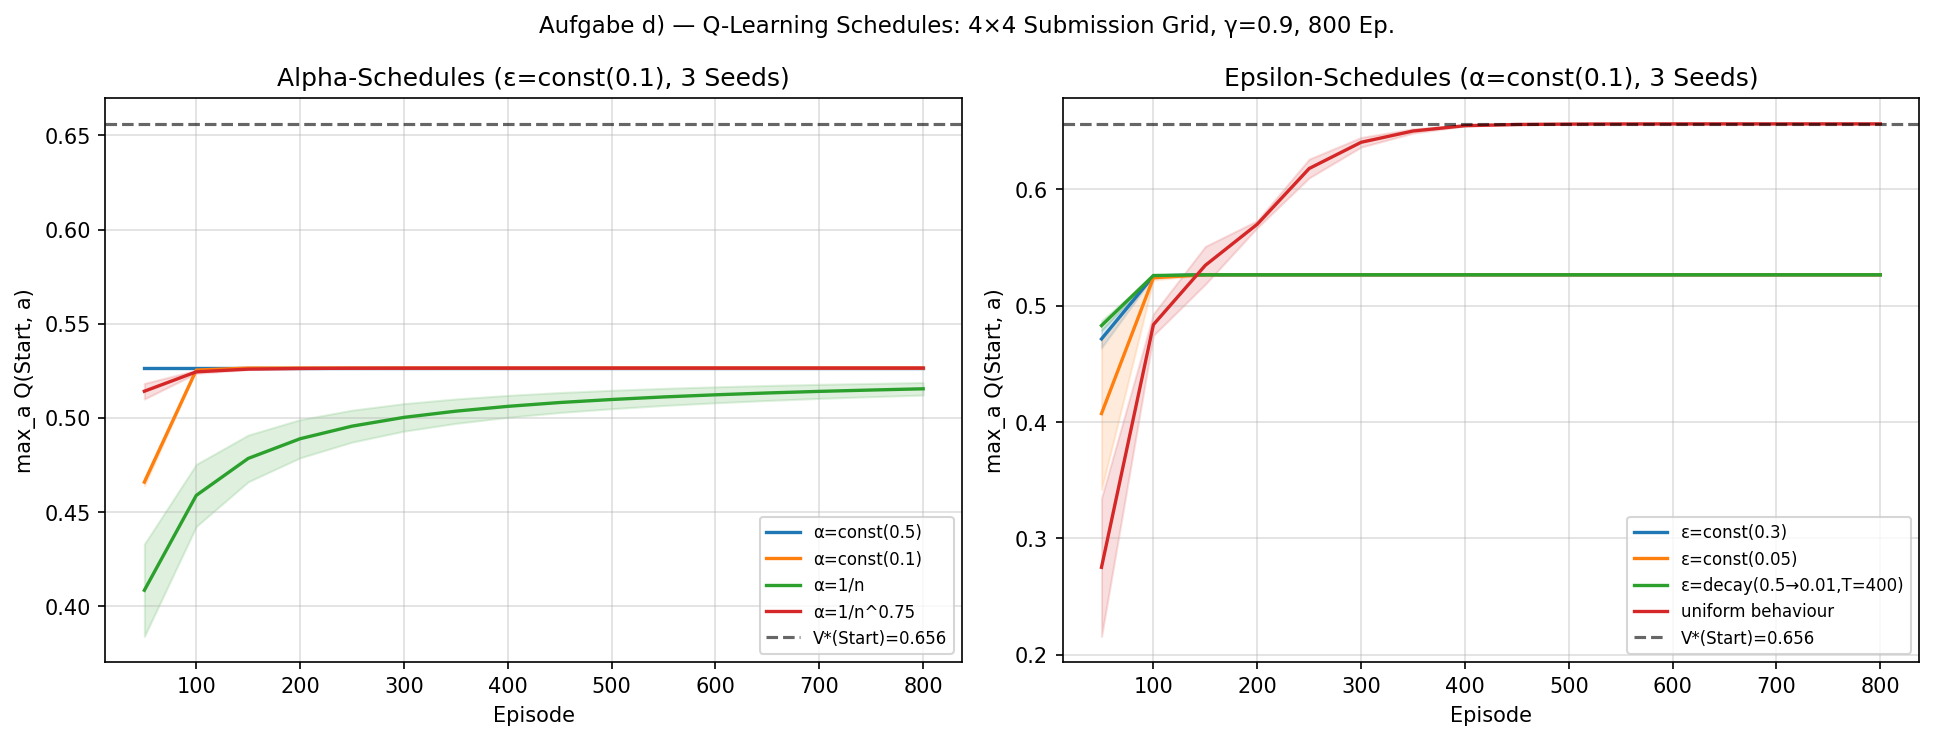
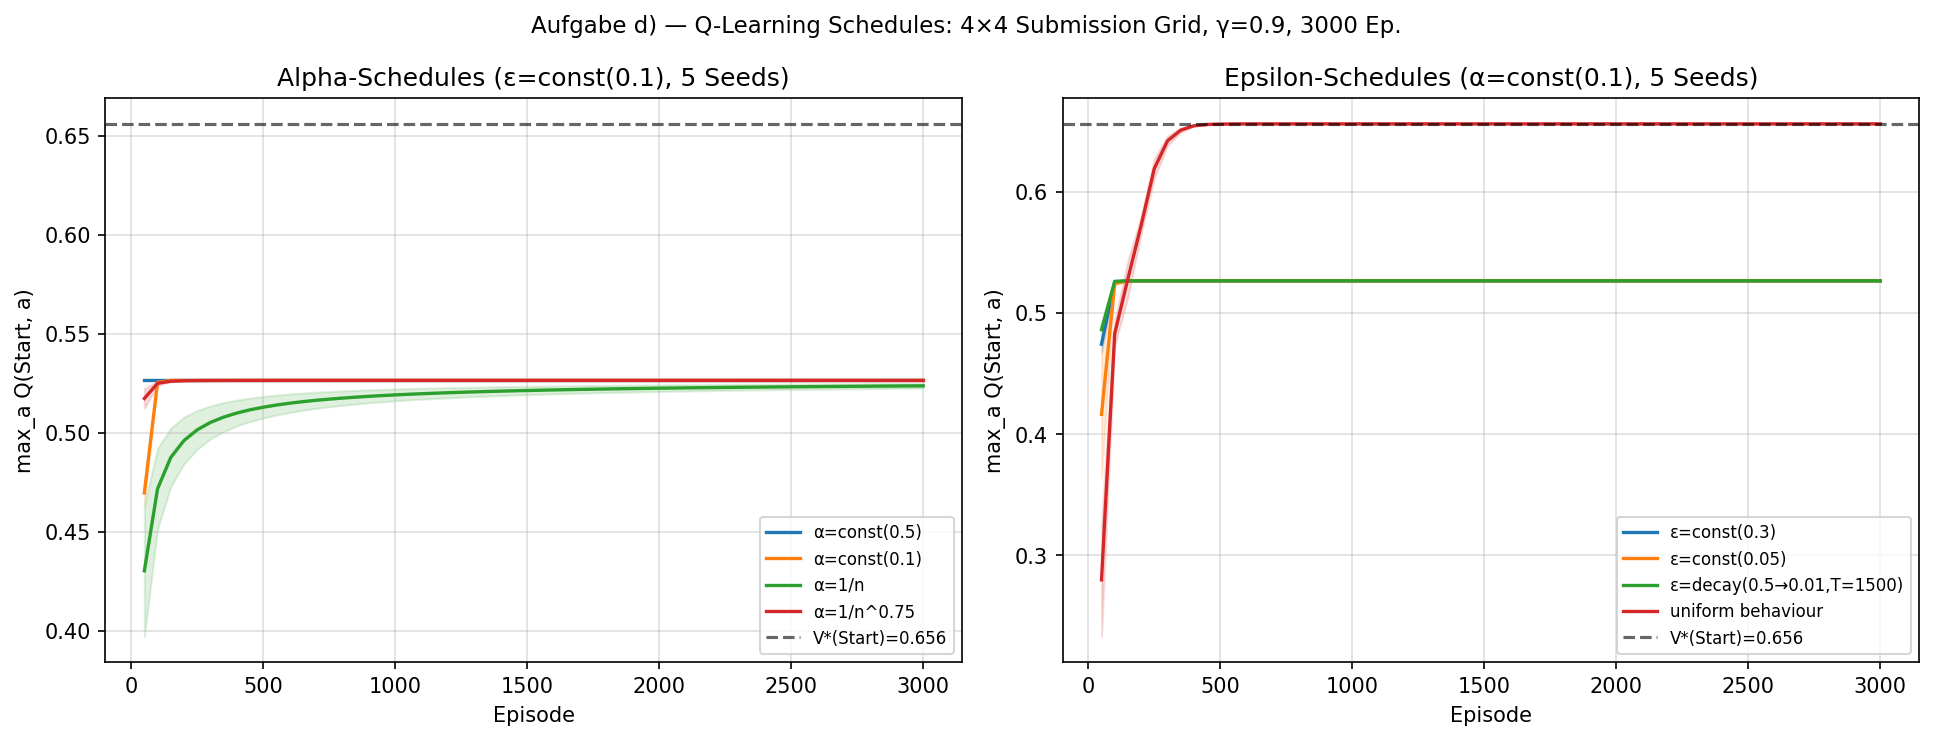
Finalize repo for submission (step 6)
- README: vollständig neu mit Setup, Tests, Demo-Liste, Submission-Anleitung,
  KI-Hinweis und erwarteten Laufzeiten (98 Tests ~30s, Full-Run ~50s)
- requirements.txt: scipy/joblib/tqdm entfernt (nirgendwo importiert),
  pytest ergänzt
- .gitignore: results/*.json ergänzt, .claude/ explizit ausgeschlossen,
  submission/-Unterverzeichnisse bleiben korrekt getrackt
- Stub-Module bereinigt: alle # TODO-Zeilen aus n_step_td, n_step_sarsa,
  utils/metrics, utils/plotting, utils/visualization, run_policy_evaluation
  entfernt und durch erklärende Docstring-Zeilen ersetzt
- figures/submission und results/submission: task_d + task_f aktualisiert
  (regeneriert durch run_all_submission)

diff --git a/tabular_rl_project/experiments/demos/run_policy_evaluation.py b/tabular_rl_project/experiments/demos/run_policy_evaluation.py
@@ -1,5 +1,8 @@
-"""Demo: Iterative Policy Evaluation (Skript Algorithm 7) auf einem GridWorld."""
+"""Demo: Iterative Policy Evaluation (Skript Algorithm 7) auf einem GridWorld.
 
-# TODO
+Nicht implementiert; Policy Evaluation wird in run_value_iteration.py
+und in den Submission-Tasks demonstriert.
+"""
+
 if __name__ == "__main__":
     pass

diff --git a/tabular_rl_project/utils/metrics.py b/tabular_rl_project/utils/metrics.py
@@ -4,6 +4,7 @@
     - total_squared_bias(Q_estimate, Q_true)
     - bias_at(Q_estimate, Q_true, state, action)
     - squared_bias_at(...)
-"""
 
-# TODO
+Nicht implementiert; die Bias-Analyse ist in den Submission-Tasks direkt
+inline in den jeweiligen Skripten enthalten.
+"""

diff --git a/tabular_rl_project/utils/plotting.py b/tabular_rl_project/utils/plotting.py
@@ -3,6 +3,7 @@
     - plot_convergence(errors_per_algo, title, ylabel)
     - boxplot_final_metric(values_per_algo, ...)
     - save_figure(fig, name)         legt unter ../figures/<name>.png ab
-"""
 
-# TODO
+Nicht implementiert; Plots werden direkt in den Demo- und Submission-
+Skripten erstellt, die jeweils eigene Matplotlib-Funktionen enthalten.
+"""

diff --git a/tabular_rl_project/utils/visualization.py b/tabular_rl_project/utils/visualization.py
@@ -5,6 +5,7 @@
     - animate_evolution(history)                 Schrittweise Entwicklung
                                                  (Backpropagation, Blatt 5 Aufg. 5)
     - render_multi_step_bandit_policy(env, policy)
-"""
 
-# TODO
+Nicht implementiert; GridWorld-Visualisierungen sind direkt in
+envs/gridworld.py (visualize_layout, visualize_policy) enthalten.
+"""

diff --git a/tabular_rl_project/algos/n_step_sarsa.py b/tabular_rl_project/algos/n_step_sarsa.py
@@ -1,6 +1,6 @@
 """n-step SARSA Control (Übungsblatt 8 Aufgabe 3 b).
 
 n-step on-policy Update analog zu sarsa.py mit n-Schritt-Return.
-"""
 
-# TODO
+Nicht Teil der gewählten Submission-Tasks; Modul ist als Platzhalter vorhanden.
+"""

diff --git a/tabular_rl_project/algos/n_step_td.py b/tabular_rl_project/algos/n_step_td.py
@@ -5,6 +5,6 @@ Update startet erst nach n Schritten der MDP-Trajektorie:
               + gamma^n V(S_{t+n})
     V(S_t) <- V(S_t) + alpha * (G_t^{(n)} - V(S_t))
 und analog für Q.
-"""
 
-# TODO: n_step_td_V / n_step_td_Q
+Nicht Teil der gewählten Submission-Tasks; Modul ist als Platzhalter vorhanden.
+"""

diff --git a/README.md b/README.md
@@ -1,66 +1,52 @@
 # Tabular Reinforcement Learning
 
-Implementation zentraler tabellarischer RL-Algorithmen in Python — von modellbasierten
-Dynamic-Programming-Verfahren bis hin zu sample-basierten Methoden wie Q-Learning,
-SARSA und Actor-Critic. Entwickelt im Rahmen der Vorlesung *Reinforcement Learning*
-an der Universität Mannheim (FSS 2026).
+Implementierung tabellarischer RL-Algorithmen in Python — von modellbasierten
+Dynamic-Programming-Verfahren bis zu sample-basierten Methoden wie Q-Learning,
+SARSA und Actor-Critic. Entwickelt im Rahmen der Vorlesung *Reinforcement
+Learning* (Prof. Dr. Leif Döring, Universität Mannheim, FSS 2026),
+Übungsblatt 8 Aufgabe 4. Theoretische Grundlage: Vorlesungsskript Kapitel 2 & 3.
 
-## Überblick
+Alle Algorithmen laufen auf einer eigens implementierten `FiniteMDP`-Basisklasse
+ohne externe RL-Frameworks — ausschließlich NumPy und Matplotlib.
 
-Das Projekt deckt die folgenden Algorithmen-Familien ab:
+---
 
-- **Dynamic Programming:** Value Iteration, Iterative Policy Evaluation (synchron & asynchron), Policy Iteration, Finite-Time DP
-- **Monte-Carlo:** First-Visit und Every-Visit Policy Evaluation
-- **Temporal Difference:** TD(0), Q-Learning, Double Q-Learning, SARSA, n-Step TD, n-Step SARSA
-- **Actor-Critic:** General Actor-Critic
+## Algorithmen
 
-Alle Algorithmen laufen auf einer eigens implementierten `FiniteMDP`-Basisklasse ohne
-externe RL-Frameworks — ausschließlich NumPy, SciPy und Matplotlib.
+| Familie | Implementierung |
+|---|---|
+| Dynamic Programming | Value Iteration, Iterative Policy Evaluation (sync + async), Policy Iteration, Finite-Time DP |
+| Monte-Carlo | First-Visit (Alg. 15) und Every-Visit (Alg. 14) Policy Evaluation |
+| Temporal Difference | TD(0), Q-Learning, Double Q-Learning, SARSA |
+| Actor-Critic | General Actor-Critic |
+
+---
 
 ## Projektstruktur
 
 ```
 tabular_rl_project/
-├── envs/              Umgebungen (MDPs)
-│   ├── mdp_base.py                    Abstrakte Finite-MDP-Basisklasse
-│   ├── gridworld.py                   Konfigurierbare m×n Grid World
-│   ├── multi_step_bandit.py           Multi-Step Bandit
-│   ├── gridworld_4x4_submission.py    4×4-Szenario mit stochastischen Regionen
-│   ├── cliff_walk.py                  Windy Cliff Walk
-│   └── extreme_mdps.py                MDPs für Backpropagation / Overestimation
-│
-├── algos/             Algorithmen
-│   ├── schedules.py                   α- und ε-Schedules (konstant, 1/n, ...)
-│   ├── exploration.py                 Explorations-Policies (ε-greedy, ...)
-│   ├── value_iteration.py
-│   ├── iterative_policy_evaluation.py synchron + asynchron
-│   ├── policy_iteration.py
-│   ├── finite_time_dp.py
-│   ├── monte_carlo.py
-│   ├── td_policy_evaluation.py
-│   ├── q_learning.py
-│   ├── double_q_learning.py
-│   ├── sarsa.py
-│   ├── n_step_td.py
-│   ├── n_step_sarsa.py
-│   └── actor_critic.py
-│
-├── utils/             Visualisierung, Online-Evaluation, Bias-Metriken, Plotting
-│
+├── envs/                   Umgebungen (FiniteMDP-Basisklasse, GridWorld,
+│                           Multi-Step Bandit, Cliff Walk, Extreme MDPs,
+│                           4×4-Submission-Grid mit stochastischen Regionen)
+├── algos/                  Algorithmen (DP, MC, TD, Q-Learning, SARSA,
+│                           Actor-Critic) + Schedules + Exploration
+├── utils/                  Online-Evaluation (Pause-Evaluate-Resume)
 └── experiments/
-    ├── demos/                         Sanity-Checks pro Algorithmus / Umgebung
-    └── submission_tasks/              Vollständige Experiment-Skripte
-        ├── task_a_convergence_rates.py
-        ├── task_b_finite_vs_discounted.py
-        ├── task_c_extreme_effects.py
-        ├── task_d_qlearning_hyperparams.py
-        ├── task_e_actor_critic_vs_bellman.py
-        └── task_f_4x4_gridworld.py
+    ├── demos/              Sanity-Checks: ein Demo-Skript pro Algo/Env
+    ├── submission_tasks/   Vollständige Experiment-Skripte task_a – task_f
+    └── run_all_submission.py   Master-Skript: alle Tasks nacheinander
+
+figures/submission/         Abgabe-Plots (task_a – task_f)
+results/submission/         Numerische Ergebnisse als JSON (task_a – task_f)
+tests/                      Pytest-Tests (98 Tests)
 ```
 
-Generierte Plots landen in `figures/`, optionale Auswertungs-Notebooks in `notebooks/`.
+---
 
-## Setup
+## Installation
+
+**Linux / macOS**
 
 ```bash
 python -m venv .venv
@@ -68,10 +54,84 @@ source .venv/bin/activate
 pip install -r requirements.txt
 ```
 
-Python 3.11+ empfohlen.
+**Windows**
 
-## Demo ausführen
+```bash
+python -m venv .venv
+.venv\Scripts\activate
+pip install -r requirements.txt
+```
+
+Python 3.11 oder neuer empfohlen.
+
+---
+
+## Tests ausführen
+
+```bash
+pytest tests/
+```
+
+Erwartete Ausgabe: **98 Tests grün**, Laufzeit ca. 30 Sekunden.
+
+---
+
+## Demos ausführen
 
 ```bash
 python -m tabular_rl_project.experiments.demos.run_gridworld
+python -m tabular_rl_project.experiments.demos.run_value_iteration
+python -m tabular_rl_project.experiments.demos.run_multi_step_bandit
+python -m tabular_rl_project.experiments.demos.run_monte_carlo
+python -m tabular_rl_project.experiments.demos.run_q_learning
+python -m tabular_rl_project.experiments.demos.run_sarsa
+python -m tabular_rl_project.experiments.demos.run_cliff_walk
+python -m tabular_rl_project.experiments.demos.run_actor_critic
+python -m tabular_rl_project.experiments.demos.run_extreme_mdps
+python -m tabular_rl_project.experiments.demos.run_submission_grid
 ```
+
+Plots landen in `figures/`.
+
+---
+
+## Submission reproduzieren
+
+```bash
+python -m tabular_rl_project.experiments.run_all_submission
+```
+
+Führt alle sechs Submission-Tasks (a–f) nacheinander aus.
+Erwartete Laufzeit: ca. 50 Sekunden.
+
+Für einen schnellen Testlauf mit reduzierten Episoden/Seeds:
+
+```bash
+python -m tabular_rl_project.experiments.run_all_submission --quick
+```
+
+Erwartete Laufzeit im Quick-Modus: ca. 28 Sekunden.
+
+Einzelne Tasks können mit `--tasks a c f` ausgewählt werden.
+
+**Output-Pfade:**
+
+| Inhalt | Pfad |
+|---|---|
+| Plots (PNG) | `figures/submission/task_X_*.png` |
+| Numerische Ergebnisse | `results/submission/task_X.json` |
+
+---
+
+## Hinweis zur KI-Unterstützung
+
+Die technische Implementierung wurde mit Unterstützung von Claude (Anthropic)
+durchgeführt. Konzeption der Experimente, Auswahl der Algorithmen und
+Hyperparameter, inhaltliche Validierung der Ergebnisse sowie alle
+Submission-Texte stammen vom Autor.
+
+---
+
+## Autor
+
+Jan Salama, Universität Mannheim, FSS 2026